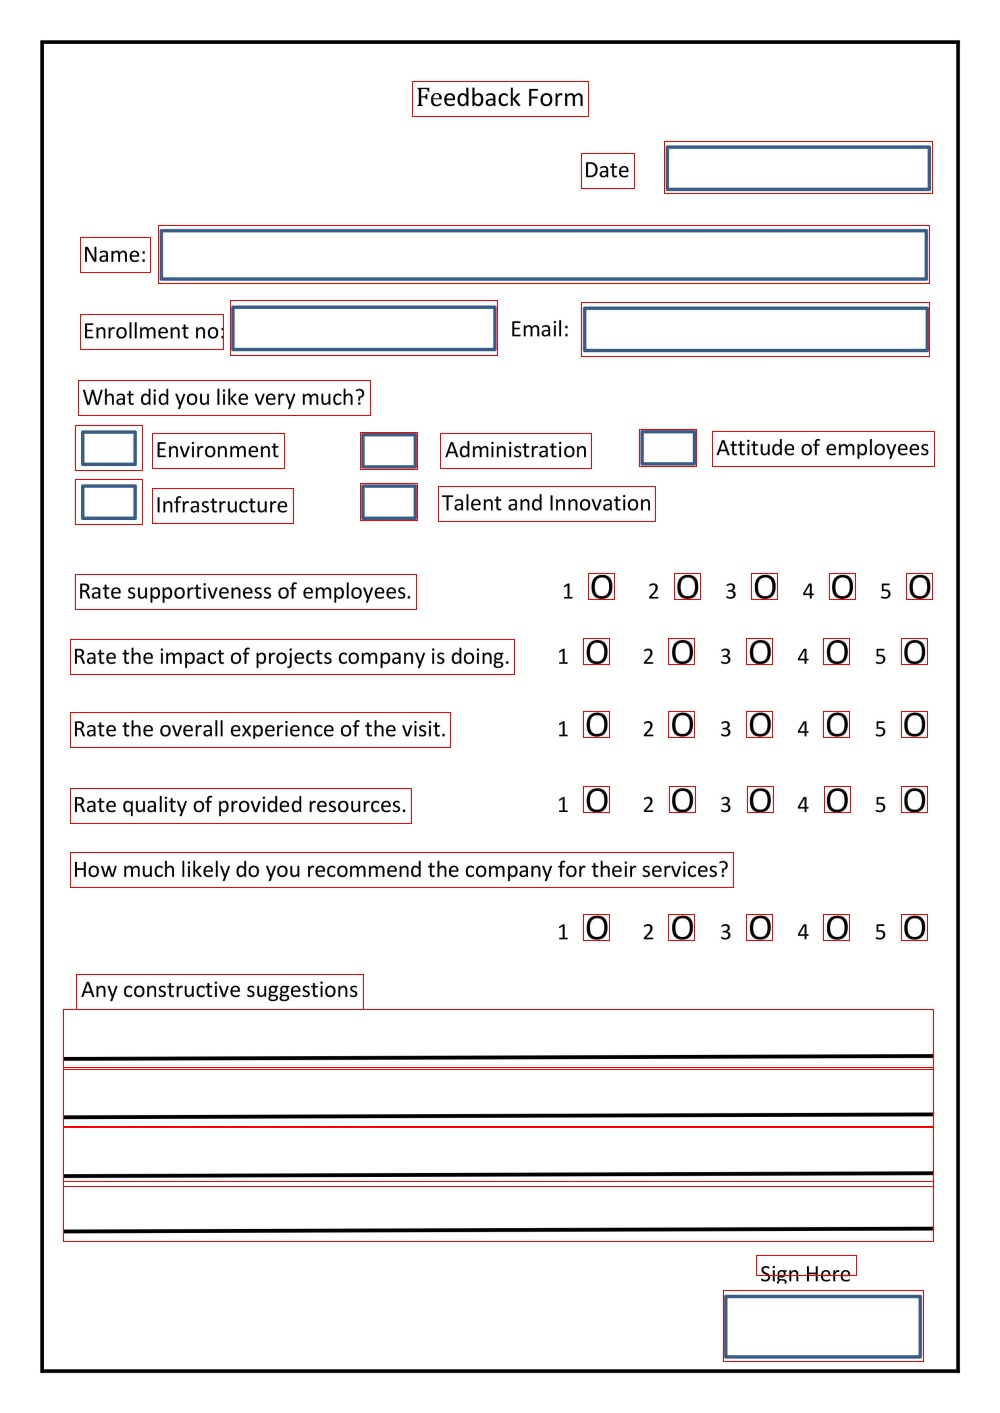
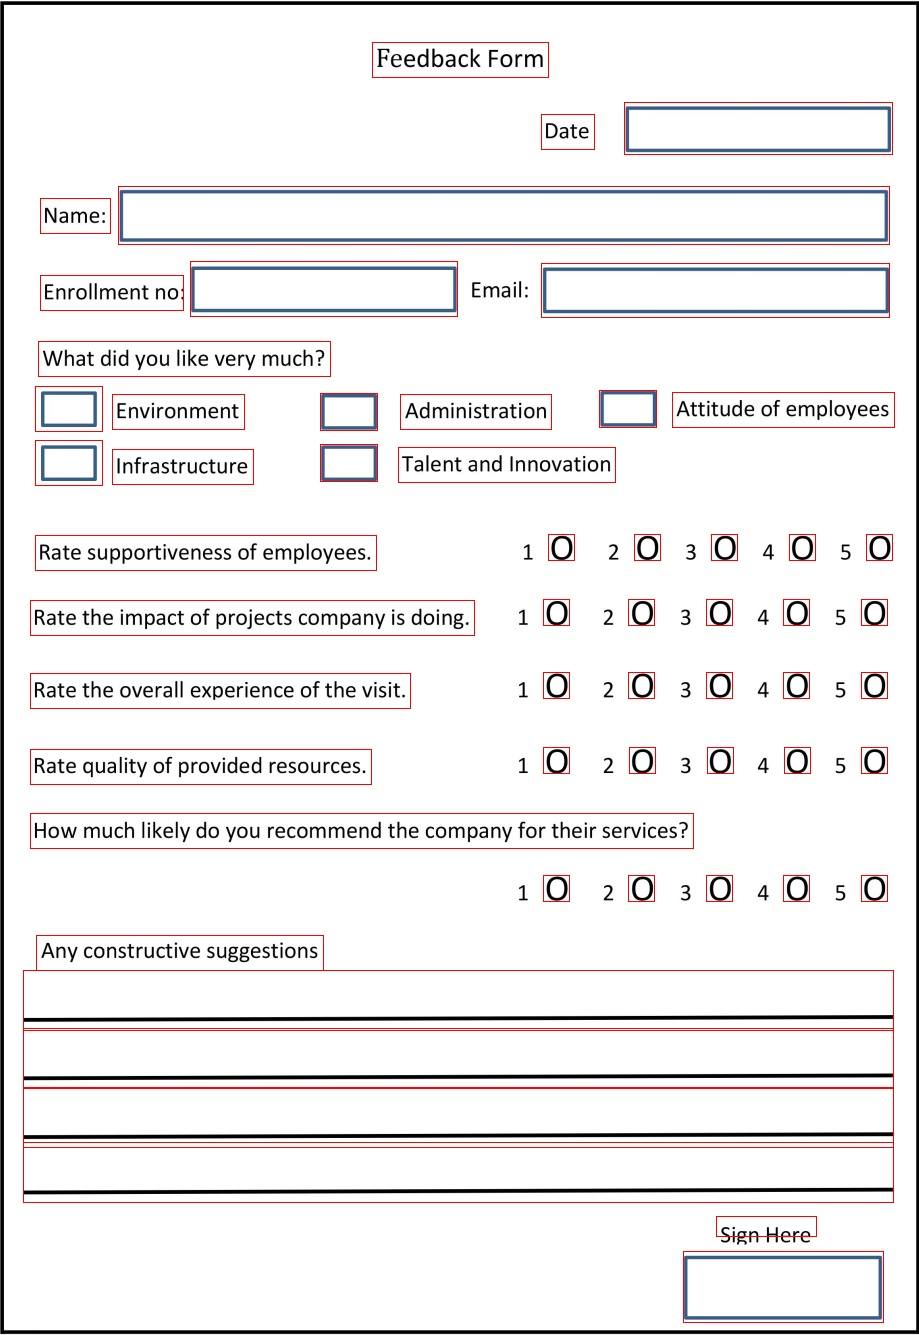
commit

Changed region(s): [[0.0, 0.0, 1.0, 1.0]]

diff --git a/temp.py b/temp.py
@@ -252,6 +252,43 @@ def get_checkbox(df_box):
             checkbox.append([row[1]-5,row[2]-5,abs(row[4]-row[2])+10,abs(row[3]-row[1]+10),"checkbox",np.nan,0])
             df_box = df_box.drop(row[0])
     return df_box,checkbox
+def generate_label_box(data,height):
+    text = []
+    label_box = []
+    value = ""
+    
+    
+
+    for j in range(len(data)):
+        text.append(data[j].split(" "))    
+    data = ""
+    X1,Y1 = int(text[0][1]),int(text[0][2])
+    X2,Y2 = int(text[0][3]),int(text[0][4])
+    for i in range(len(text)):        
+        data+=text[i][0]
+        w = int(text[i][3])-int(text[i][1])
+        y_dist = abs(Y2-int(text[i][4]))
+        x_dist = abs(X2-int(text[i][1]))
+        if w<40:
+            if text[i][0].isdigit():
+                continue
+            if y_dist<height and x_dist<height:
+                X2,Y2 = int(text[i][3]),int(text[i][4])
+                value+= text[i][0] 
+            else:
+                if len(value)>1:
+                    if (Y2-Y1)<25:
+                        label_box.append([X1,Y1,25,X2-X1,"label",value,"0"])
+                    else:
+                        label_box.append([X1,Y1,Y2-Y1,X2-X1,"label",value,"0"])
+                X1,Y1 = int(text[i][1]),int(text[i][2])
+                X2,Y2 = int(text[i][3]),int(text[i][4])
+                value = ""
+                value+=text[i][0]
+    label_box.append([X1,Y1,Y2-Y1,X2-X1,"label",value,"0"])
+    df = pd.DataFrame(label_box, columns = ['X1','Y1','X2','Y2','Type','value','group'])
+    return df
+
 for number in range(20,23):
     img = cv2.imread("test"+str(number)+".jpg")
     print("test"+str(number)+".png")
@@ -294,7 +331,7 @@ for number in range(20,23):
 
 #    """FORM BOX """
     start = df_box.iloc[0]
-    print(start[0])
+    print(start)
 #    """CONVERSION TO H,W FROM X2,Y2"""
     df['Y1'] = df['Y1'] - height
     df['Y2'] = df['Y2'] + 10
@@ -342,42 +379,9 @@ for number in range(20,23):
     cv2.destroyAllWindows()
     text = pytesseract.image_to_boxes(threshold, config= '--psm 1')
     data = text.split('\n')
-    text = []
-    label_box = []
-    value = ""
     height= 25
+    df = generate_label_box(data,height)
     
-
-    for j in range(len(data)):
-        text.append(data[j].split(" "))    
-    data = ""
-    X1,Y1 = int(text[0][1]),int(text[0][2])
-    X2,Y2 = int(text[0][3]),int(text[0][4])
-    for i in range(len(text)):        
-        data+=text[i][0]
-        h = int(text[i][4])-int(text[i][2])
-        w = int(text[i][3])-int(text[i][1])
-        y_dist = abs(Y2-int(text[i][4]))
-        x_dist = abs(X2-int(text[i][1]))
-        if w<40:
-            if text[i][0].isdigit():
-                continue
-            if y_dist<height and x_dist<height:
-                X2,Y2 = int(text[i][3]),int(text[i][4])
-                value+= text[i][0] 
-            else:
-                if len(value)>1:
-                    if (Y2-Y1)<25:
-                        label_box.append([X1,Y1,25,X2-X1,"label",value,"0"])
-                    else:
-                        label_box.append([X1,Y1,Y2-Y1,X2-X1,"label",value,"0"])
-                X1,Y1 = int(text[i][1]),int(text[i][2])
-                X2,Y2 = int(text[i][3]),int(text[i][4])
-                value = ""
-                value+=text[i][0]
-    label_box.append([X1,Y1,Y2-Y1,X2-X1,"label",value,"0"])
-    df = pd.DataFrame(label_box, columns = ['X1','Y1','X2','Y2','Type','value','group'])
-
     y,x = threshold.shape
     df['Y1'] = y - 25 - df['Y1']
     df['X1'] = df['X1'] - 5
@@ -393,7 +397,10 @@ for number in range(20,23):
         writer.writerows(label_box)    
 
     df_box= pd.read_csv('data'+str(number) + '.csv')
-    
+    if number!=20:
+        df_box['top'] = df_box['top']-start[1]
+        df_box['left'] = df_box['left']-start[0]
+    img1 = img1[start[1]:start[3],start[0]:start[2]]
     for row in df_box.itertuples():
         cv2.rectangle(img1, (row[1],row[2]),(row[1]+row[4],row[2]+row[3]),(0,0,255),1)
     cv2.imshow("Display", img1)
